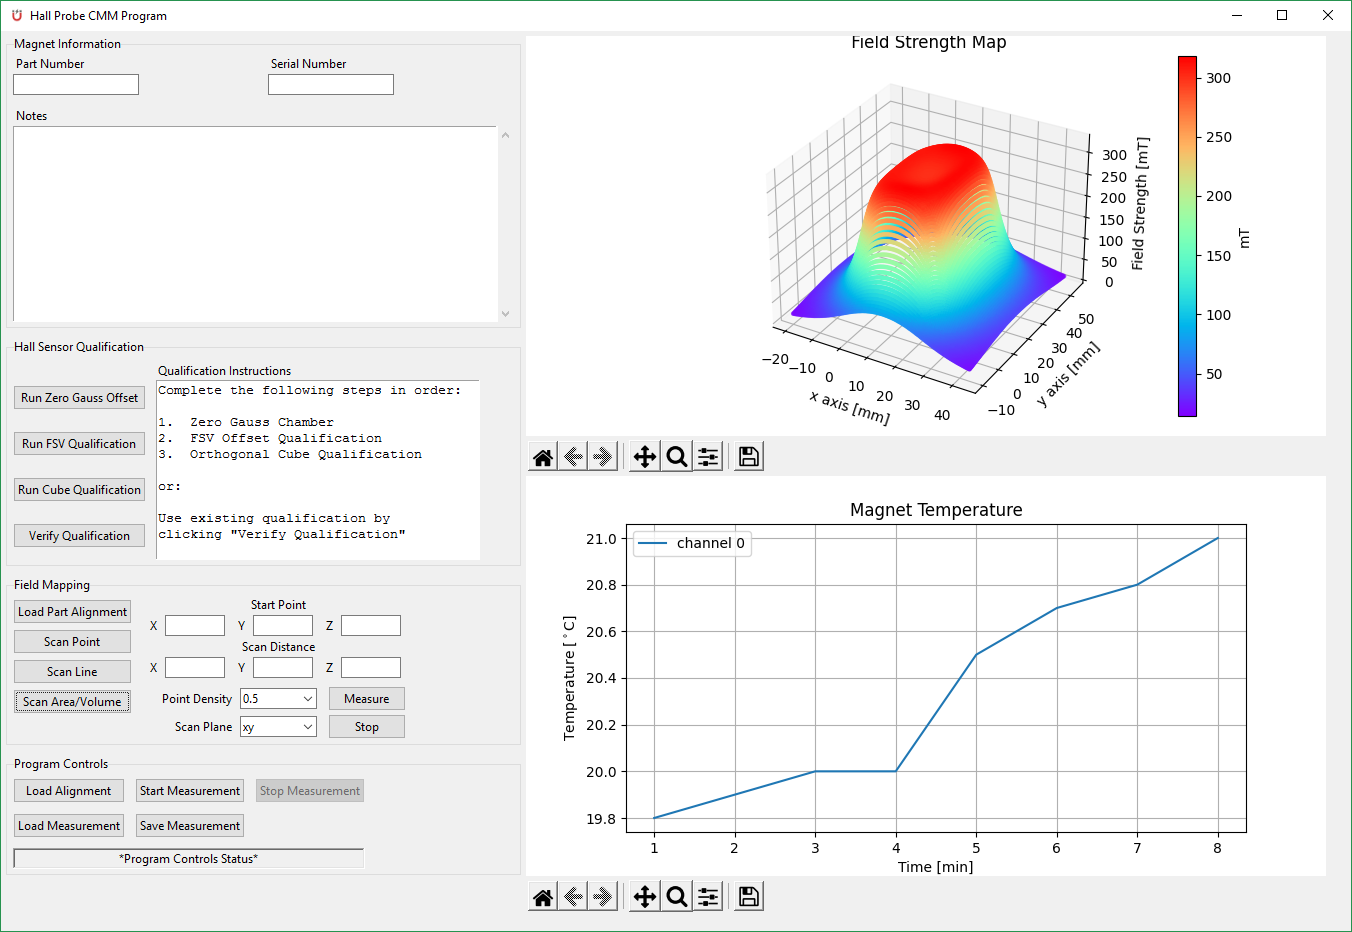
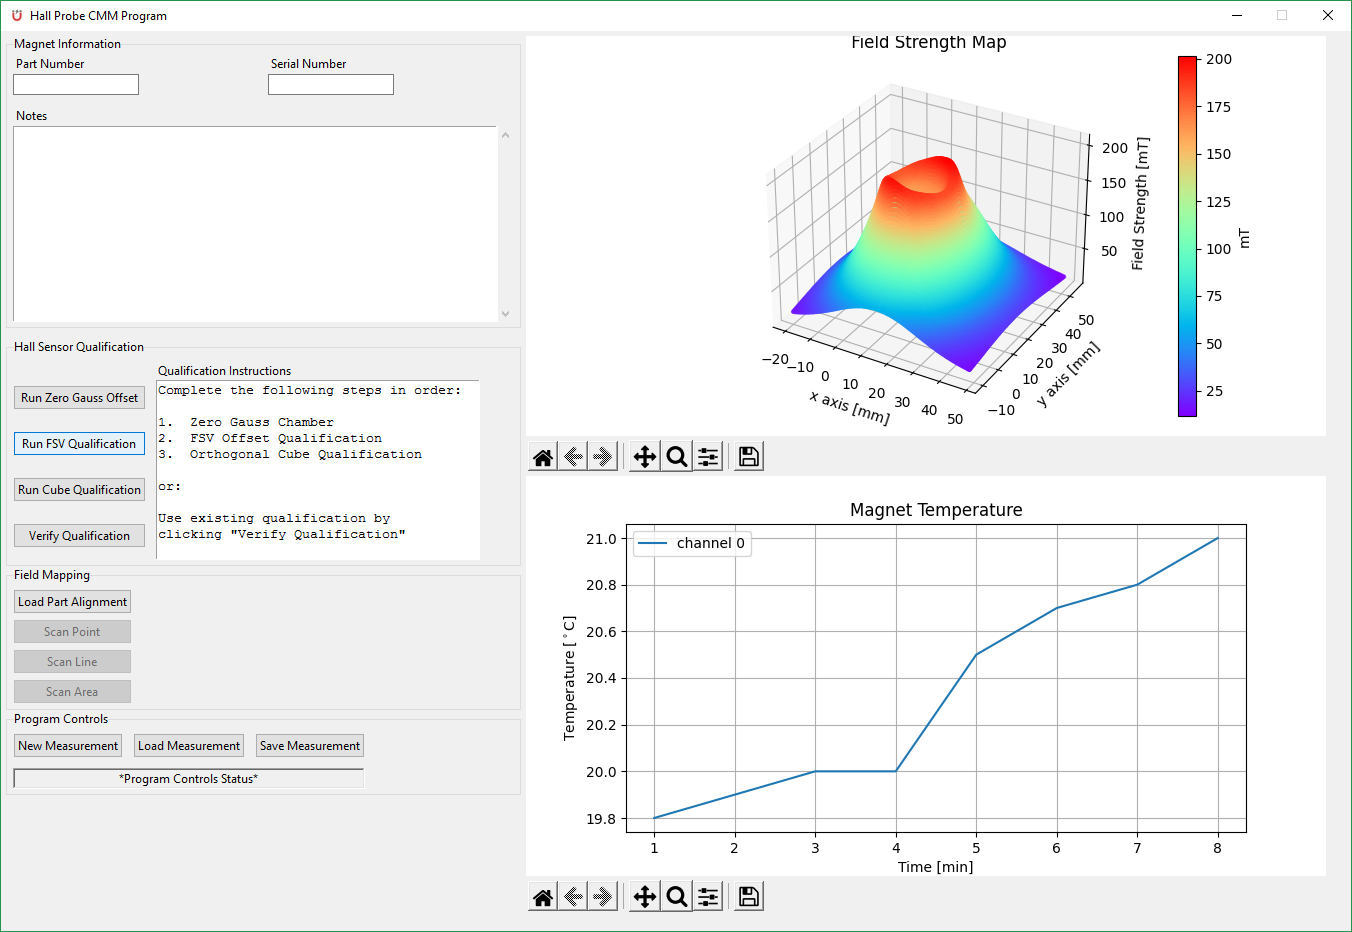
savepoint

diff --git a/hallprobe_gui.py b/hallprobe_gui.py
@@ -282,12 +282,15 @@ class ProgramControls(ttk.LabelFrame):
         self.create_widgets()
 
     def create_widgets(self):
-        self.btn_new_meas = ttk.Button(self, text='New Measurement', command=self.new_measurement)
+        tv_headings = None
+        self.btn_new_meas = ttk.Button(self, text='New Session', command=self.new_measurement)
         self.btn_load_meas = ttk.Button(self, text='Load Measurement', command=self.load_measurement)
+        self.btn_load_session = ttk.Button(self, text='Load Session', command=self.btn_load_session)
         self.btn_save_meas = ttk.Button(self, text='Save Measurement', command=self.save_measurement)
         self.btn_plot_2d = ttk.Button(self, text='Plot 2D Map', command=self.display_2d)
         self.btn_plot_3d = ttk.Button(self, text='Plot 3D Map', command=None)
         self.btn_plot_pointcloud = ttk.Button(self, text='Plot Point Cloud', command=None)
+        self.tv_measurement = ttk.Treeview(self, columns=None, show='headings')
         self.lbl_controls_status = tk.Label(self, text='*Program Controls Status*')
         self.lbl_controls_status.config(relief='sunken')
         # Place widgets within grid
@@ -303,6 +306,9 @@ class ProgramControls(ttk.LabelFrame):
         self.measurement_session.new_session()
 
     def load_measurement(self):
+        pass
+
+    def load_session(self):
         pass
 
     def save_measurement(self):

diff --git a/session_db.py b/session_db.py
@@ -15,13 +15,12 @@ class Session:
 
     def create_db(self, db_name):
         try:
-            conn = sqlite3.connect(db_name)
-            self.__init_tables__(conn)
-            self.db = conn
+            self.db = sqlite3.connect(db_name)
+            self.__init_tables__(self.db)
         except Error as e:
             showerror('Database Error', e)
     
-    def __init_tables__(self, db_conn):
+    def __init_tables__(self):
         sql_part_info = \
             """
             CREATE TABLE IF NOT EXISTS part_info(
@@ -97,12 +96,13 @@ class Session:
             """
         # Create Part Info table
         try:
-            c = db_conn.cursor()
+            c = self.db.cursor()
             c.execute(sql_part_info)
             c.execute(sql_magnet_temp)
             c.execute(sql_scan_point)
             c.execute(sql_scan_line)
             c.execute(sql_scan_area)
+            c.close()
         except Error as e:
             showerror('Table Initialization', e)
 
@@ -129,6 +129,9 @@ class Session:
             pass
         else:
             pass
+    
+    def load_measurement(self):
+        pass
 
     def load_session(self, filepath: Path):
         if self.session_changes:
